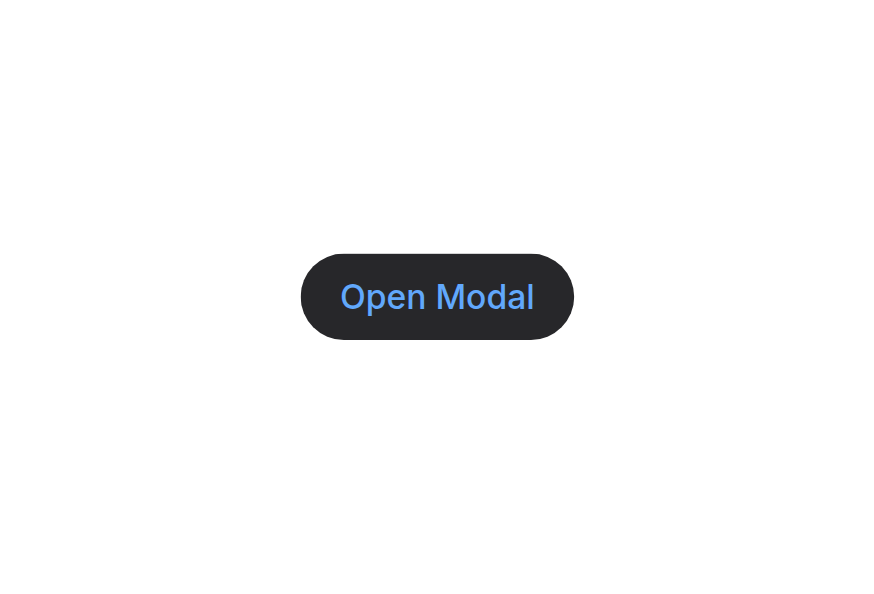
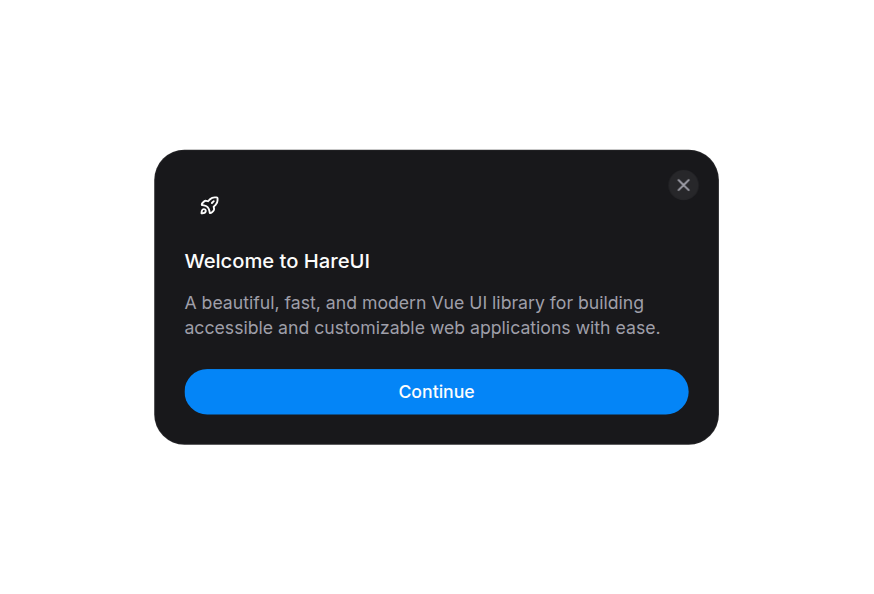
docs(components): show overlays open in their overview thumbnails
AlertDialog, Drawer, Modal, Popover, Toast and Tooltip thumbnails showed
only their trigger buttons. gen-thumbnails can now click or hover a trigger
and shoot the teleported overlay (with the trigger, for Popover and Tooltip),
as HeroUI's thumbnails do. Open overlays are shot within the viewport, since
capturing beyond it moves anything fixed to it.

Claude-Session: https://claude.ai/code/session_01CArqTohrWQD6FD6U1ZoruE

Changed region(s): [[0.1545, 0.2424, 0.8341, 0.7576]]

diff --git a/docs/scripts/gen-thumbnails.ts b/docs/scripts/gen-thumbnails.ts
@@ -25,11 +25,30 @@ const MAX_SCALE = 2.4
 // demo to shoot instead (its ComponentPreview name, e.g. `button-group/variants`), and `select`
 // keeps only the matching elements inside it (`:scope` is the demo's root element). `width` narrows
 // a full-width demo (in CSS px) so it is shot at a readable zoom.
-const PICKS: Record<string, { demo?: string, select?: string, width?: number }> = {
+// Overlays are shot open, as HeroUI's are: `open` clicks (or, with `hover`, hovers) the demo element it
+// matches, then `overlay` picks what to keep from the whole document (overlays are teleported to <body>).
+// Without `select`, nothing of the demo itself is kept. `viewport` resizes the page for overlays sized by it.
+interface Pick {
+  demo?: string
+  select?: string
+  width?: number
+  open?: string
+  hover?: boolean
+  overlay?: string
+  viewport?: { width: number, height: number }
+}
+const PICKS: Record<string, Pick> = {
+  'alert-dialog': { open: 'button', overlay: '[data-slot="alert-dialog-dialog"]' },
   'accordion': { select: '[data-slot="accordion-item"]:nth-child(-n+3)', width: 320 },
   'alert': { select: ':scope > [data-slot="alert-root"]:nth-of-type(2)', width: 380 },
+  // The bottom drawer, as its height fits its content; the narrow viewport keeps it from spanning 1440px.
+  'drawer': { demo: 'drawer/placements', open: 'button', overlay: '[data-slot="drawer-dialog"]', viewport: { width: 560, height: 900 } },
   'button-group': { demo: 'button-group/variants', select: ':scope > :first-child [data-slot="button-group"]' },
+  'modal': { open: 'button', overlay: '[data-slot="modal-dialog"]' },
+  'popover': { select: 'button', open: 'button', overlay: '[data-slot="popover"]' },
   'tabs': { width: 320 },
+  'toast': { open: 'button', overlay: '[data-slot="toast"]' },
+  'tooltip': { select: ':scope > button:first-child', open: ':scope > button:first-child', hover: true, overlay: '[data-reka-popper-content-wrapper]' },
   'typography': { select: ':scope > :nth-child(-n+3)' },
 }
 
@@ -82,15 +101,17 @@ function centre(src: PNG): PNG {
   return out
 }
 
-async function shoot(page: Page, clip: Box): Promise<PNG> {
-  return PNG.sync.read(Buffer.from(await page.screenshot({ clip, omitBackground: true, captureBeyondViewport: true })))
+// Capturing beyond the viewport enlarges it, which moves anything fixed to it, so open overlays are shot within it.
+async function shoot(page: Page, clip: Box, captureBeyondViewport = true): Promise<PNG> {
+  return PNG.sync.read(Buffer.from(await page.screenshot({ clip, omitBackground: true, captureBeyondViewport })))
 }
 
 async function thumbnail(page: Page, slug: string, theme: 'light' | 'dark'): Promise<PNG> {
-  await page.setViewport({ width: 1440, height: 900, deviceScaleFactor: 1 })
-  await page.goto(`${base}/docs/components/${slug}`, { waitUntil: 'networkidle0', timeout: 120_000 })
   const pick = PICKS[slug] ?? {}
-  const found = await page.evaluate((theme, pick) => {
+  const viewport = pick.viewport ?? { width: 1440, height: 900 }
+  await page.setViewport({ ...viewport, deviceScaleFactor: 1 })
+  await page.goto(`${base}/docs/components/${slug}`, { waitUntil: 'networkidle0', timeout: 120_000 })
+  let found = await page.evaluate((theme, pick) => {
     document.documentElement.classList.toggle('dark', theme === 'dark')
     document.documentElement.style.colorScheme = theme
     const preview = pick.demo ? `.preview[data-name="${pick.demo.replace(/\//g, '-')}"]` : '.preview'
@@ -98,10 +119,23 @@ async function thumbnail(page: Page, slug: string, theme: 'light' | 'dark'): Pro
     const root = demo?.firstElementChild as HTMLElement | null | undefined
     if (root && pick.width)
       root.style.width = root.style.maxWidth = `${pick.width}px`
-    const targets = root && pick.select ? [...root.querySelectorAll(pick.select)] : demo ? [demo] : []
+    // The demo's root can be the trigger itself (a Modal renders its trigger slot as its root).
+    const trigger = pick.open && root && (root.matches(pick.open) ? root : root.querySelector(pick.open))
+    trigger?.setAttribute('data-thumbnail-open', '')
+    const targets = root && pick.select ? [...root.querySelectorAll(pick.select)] : demo && !pick.overlay ? [demo] : []
     targets.forEach(el => el.setAttribute('data-thumbnail', ''))
     return targets.length
   }, theme, pick)
+  if (pick.open) {
+    const trigger = await page.$('[data-thumbnail-open]')
+    if (!trigger)
+      throw new Error(`no ${pick.open} to open in the demo`)
+    await trigger.scrollIntoView()
+    await (pick.hover ? trigger.hover() : trigger.click())
+    // Let the overlay's enter animation finish before the transitions are switched off.
+    await sleep(800)
+    found += await page.$$eval(pick.overlay!, els => els.map(el => el.setAttribute('data-thumbnail', '')).length)
+  }
   if (!found)
     throw new Error(`no demo on the page${pick.demo || pick.select ? ` for ${JSON.stringify(pick)}` : ''}`)
   await page.addStyleTag({ content: ISOLATE })
@@ -117,14 +151,14 @@ async function thumbnail(page: Page, slug: string, theme: 'light' | 'dark'): Pro
     return { x, y, width: right - x, height: bottom - y }
   })
   // Pass 1 at 1x finds the demo's ink; pass 2 shoots just that box at the thumbnail's zoom.
-  const ink = inkBox(await shoot(page, rect))
+  const ink = inkBox(await shoot(page, rect, !pick.open))
   if (!ink)
     throw new Error('demo renders nothing')
   // 2px of padding keeps antialiased edges that only appear at the higher zoom.
   const box = { x: rect.x + ink.x - 2, y: rect.y + ink.y - 2, width: ink.width + 4, height: ink.height + 4 }
   const scale = Math.min(MAX_SCALE, MAX_CONTENT.width / box.width, MAX_CONTENT.height / box.height)
-  await page.setViewport({ width: 1440, height: 900, deviceScaleFactor: scale })
-  return centre(await shoot(page, box))
+  await page.setViewport({ ...viewport, deviceScaleFactor: scale })
+  return centre(await shoot(page, box, !pick.open))
 }
 
 mkdirSync(OUT, { recursive: true })
